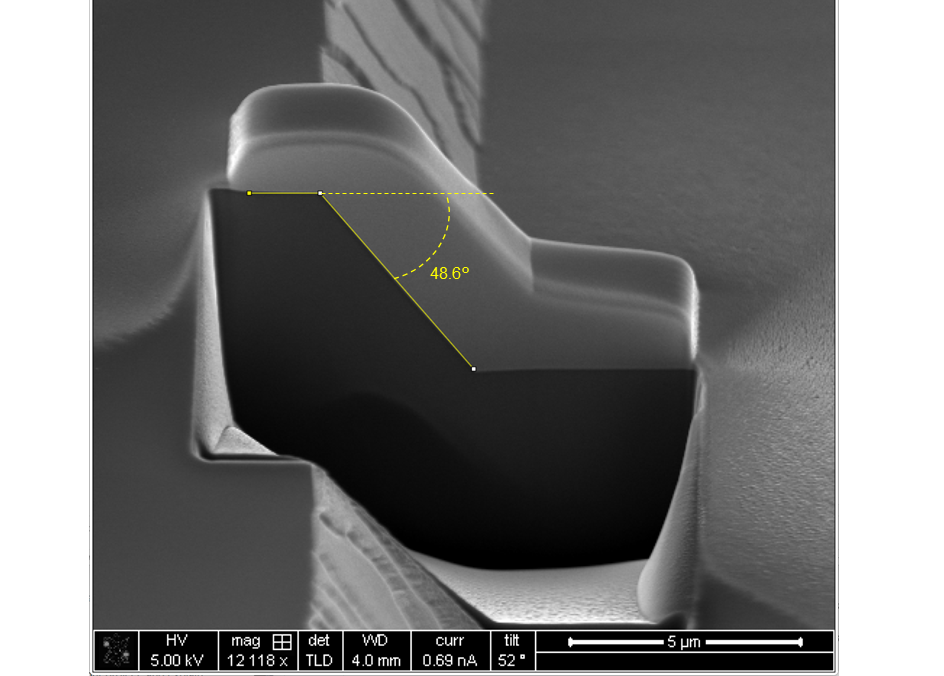
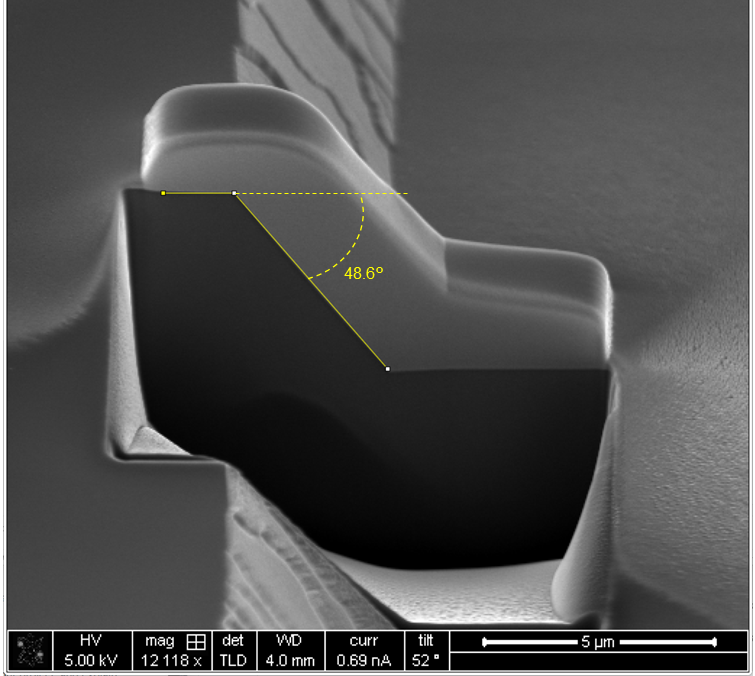
fixing style issues caused by version conflict... fixed some more spacings as well

diff --git a/styles.css b/styles.css
@@ -33,7 +33,8 @@ body {
 h1 {
     font-size: 36px;
     font-weight: normal;
-    margin-bottom: 30px;
+    margin-top: 10px;
+    margin-bottom: 7px;
 }
 
 h2 {
@@ -61,9 +62,14 @@ h3 + p {
 a {
     color: #000;
     text-decoration: underline;
+    padding: 1px 3px;
+    margin: -1px -3px;
+    transition: background 0.12s ease, color 0.12s ease;
 }
 
 a:hover {
+    background: #000;
+    color: #fff;
     text-decoration: none;
 }
 
@@ -84,6 +90,82 @@ hr {
 
 small {
     font-size: 14px;
+}
+
+/* pulls only the first entry on the portfolio landing page up against its
+   intro paragraph; every other entry keeps the default heading spacing */
+.container > p + .entry {
+    margin-top: -30px;
+}
+
+.label {
+    font-size: 14px;
+    color: #555;
+    margin-top: 20px;
+    margin-bottom: 5px;
+}
+
+details {
+    margin: 20px 0 30px;
+    font-size: 14px;
+}
+
+details p {
+    margin: 10px 0 0;
+}
+
+summary {
+    cursor: pointer;
+    text-decoration: underline;
+}
+
+summary:hover {
+    text-decoration: none;
+}
+
+::selection {
+    background: #000;
+    color: #fff;
+}
+
+button:hover {
+    background: #000;
+    color: #fff;
+}
+
+img {
+    max-width: 100%;
+    height: auto;
+    display: block;
+}
+
+.tiles {
+    display: flex;
+    gap: 5px;
+    margin-bottom: 15px;
+}
+
+.tiles img {
+    flex: 1;
+    min-width: 0;
+    height: 180px;
+    object-fit: contain;
+    display: block;
+}
+
+figure {
+    margin: 20px 0;
+}
+
+figcaption {
+    font-size: 14px;
+    color: #555;
+    margin-top: 6px;
+}
+
+.quiet {
+    color: inherit;
+    text-decoration: none;
 }
 
 .reading-list {